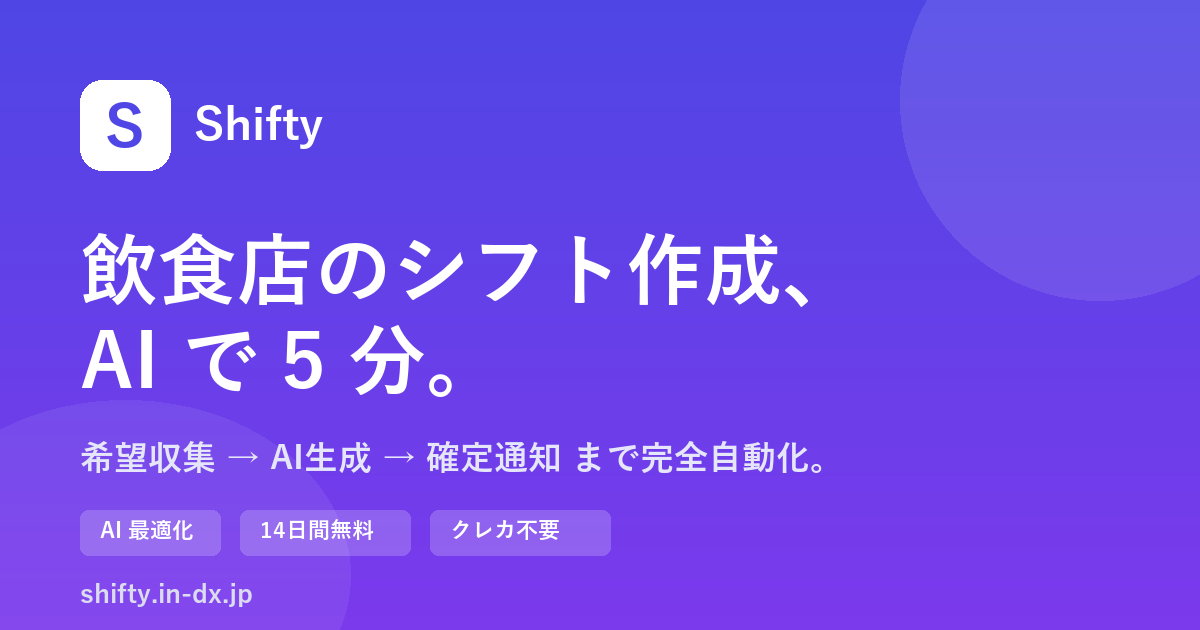
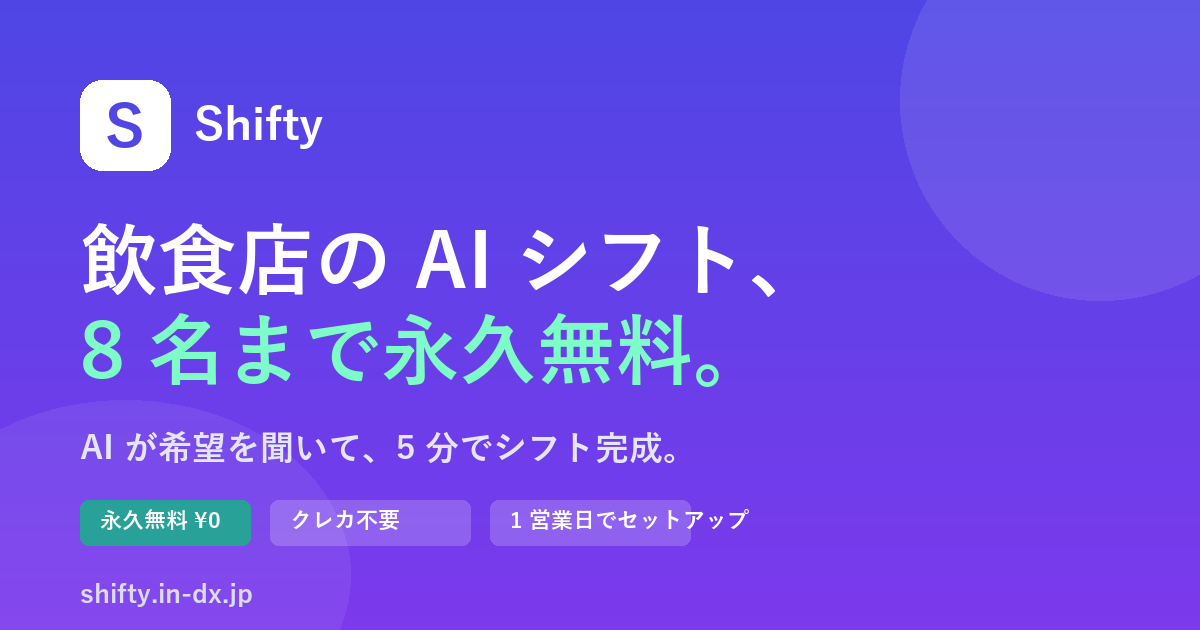
feat(LP): post-launch quality polish (4 items)
1. Help search UX 改善 (audit #N5):
   - opacity 0.3 fade → display:none で完全非表示
   - マッチ件数表示 ('🔍 N 件のセクションがマッチしました')
   - 該当 details 自動展開で内容を即座に確認可能
   - 0 件時にサポート連絡先を表示
   - aria-live=polite で screen reader 対応

2. OGP 画像 (og.png) 再生成:
   - 'AI で 5 分。' → '8 名まで永久無料。' (緑強調)
   - 'クレカ不要 / 14日間無料' → 'クレカ不要 / 1営業日でセットアップ' タグ
   - 永久無料 ¥0 タグを emerald 色で強調
   - 新ヒーロー文言と一致

3. '数字で見る Shifty' セクション追加:
   - Pain Points 直前に 4 KPI カード
   - ¥0 永久無料 / 12 主要機能 / 9 ハード制約 / 5 VOIXA 実績
   - β パートナー募集への導線も再強化
   - 顧客導入実績ゼロでも信頼性を示す数字訴求

4. 比較表の競合実名匿名化 (audit #N1 / 法務リスク回避):
   - 'Air シフト / シフトボード' → '他社 A / 他社 B' + 業態説明
   - 注釈強化: '弊社調べ・更新により変動・公式情報をご確認ください'
   - 景表法的なグレーゾーンを排除

Changed region(s): [[0.0617, 0.3619, 0.6783, 0.6333], [0.0617, 0.7841, 0.6167, 0.9048], [0.0617, 0.6635, 0.6783, 0.754]]

diff --git a/landing.html b/landing.html
@@ -368,6 +368,41 @@
     </div>
   </section>
 
+  <!-- Numbers / Trust Stats -->
+  <section class="py-12 bg-white border-y border-slate-100">
+    <div class="max-w-5xl mx-auto px-4">
+      <div class="text-center mb-8">
+        <h2 class="text-xl md:text-2xl font-bold mb-1">📊 数字で見る Shifty</h2>
+        <p class="text-xs text-slate-500">2026 年 5 月時点</p>
+      </div>
+      <div class="grid grid-cols-2 md:grid-cols-4 gap-4 text-center">
+        <div class="bg-emerald-50 border border-emerald-200 rounded-xl p-4">
+          <div class="text-3xl md:text-4xl font-bold text-emerald-700">¥0</div>
+          <div class="text-xs text-emerald-900 font-semibold mt-1">永久無料プラン</div>
+          <div class="text-[10px] text-slate-500 mt-1">8 名以下の店舗</div>
+        </div>
+        <div class="bg-brand-50 border border-brand-200 rounded-xl p-4">
+          <div class="text-3xl md:text-4xl font-bold text-brand-700">12</div>
+          <div class="text-xs text-brand-900 font-semibold mt-1">主要機能</div>
+          <div class="text-[10px] text-slate-500 mt-1">AI 生成・通知・分析他</div>
+        </div>
+        <div class="bg-amber-50 border border-amber-200 rounded-xl p-4">
+          <div class="text-3xl md:text-4xl font-bold text-amber-700">9</div>
+          <div class="text-xs text-amber-900 font-semibold mt-1">ハード制約</div>
+          <div class="text-[10px] text-slate-500 mt-1">労基準拠・違反ゼロ</div>
+        </div>
+        <div class="bg-purple-50 border border-purple-200 rounded-xl p-4">
+          <div class="text-3xl md:text-4xl font-bold text-purple-700">5</div>
+          <div class="text-xs text-purple-900 font-semibold mt-1">VOIXA 導入実績</div>
+          <div class="text-[10px] text-slate-500 mt-1">姉妹サービス・店舗数</div>
+        </div>
+      </div>
+      <div class="text-center mt-6 text-xs text-slate-500">
+        Shifty は β リリース中。<a href="#contact" data-plan="free" class="plan-cta-free text-emerald-600 underline font-semibold">β パートナー</a>として 1 号店舗を募集中です
+      </div>
+    </div>
+  </section>
+
   <!-- Pain Points -->
   <section class="py-20 bg-slate-50">
     <div class="max-w-5xl mx-auto px-4">
@@ -703,9 +738,9 @@
             <tr>
               <th class="text-left p-4 font-semibold">項目</th>
               <th class="text-center p-4 font-bold text-brand-600">Shifty</th>
-              <th class="text-center p-4">Air シフト</th>
-              <th class="text-center p-4">シフトボード</th>
-              <th class="text-center p-4">エクセル</th>
+              <th class="text-center p-4">他社 A<br><span class="text-[10px] font-normal text-slate-500">大手・無料縛り型</span></th>
+              <th class="text-center p-4">他社 B<br><span class="text-[10px] font-normal text-slate-500">スタッフ提出特化</span></th>
+              <th class="text-center p-4">エクセル<br><span class="text-[10px] font-normal text-slate-500">手作業</span></th>
             </tr>
           </thead>
           <tbody>
@@ -768,7 +803,10 @@
           </tbody>
         </table>
       </div>
-      <div class="text-xs text-slate-500 mt-4 text-center">※ 2026年5月時点の各社公開情報を元にした比較。実際の機能は各社に直接ご確認ください。</div>
+      <div class="text-xs text-slate-500 mt-4 text-center">
+        ※ 2026 年 5 月時点の弊社調べによる一般的な傾向比較です（具体名は伏せています）。各社サービスは更新により仕様が変動する可能性があります。
+        正確な機能比較は各サービスの公式情報を直接ご確認ください。
+      </div>
     </div>
   </section>
 

diff --git a/help.html b/help.html
@@ -36,7 +36,8 @@
       <p class="text-white/90 mb-6">使い方・トラブルシューティング・よくある質問</p>
       <div class="max-w-xl mx-auto">
         <input id="searchBox" type="search" placeholder="🔍 検索（例: スタッフ追加、希望提出、シフト確定）"
-          class="w-full border-0 rounded-lg px-5 py-3 text-slate-900 shadow-lg" />
+          class="w-full border-0 rounded-lg px-5 py-3 text-slate-900 shadow-lg" aria-label="ヘルプを検索" />
+        <div id="searchResultInfo" class="mt-2 text-sm text-white/90 hidden" aria-live="polite"></div>
       </div>
     </div>
   </section>
@@ -366,20 +367,45 @@
   </footer>
 
   <script>
-    // 検索: マッチしないセクションを薄表示
+    // 検索: マッチしないセクションを非表示 + 件数表示 + マッチ詳細を自動展開
     const searchBox = document.getElementById('searchBox');
+    const resultInfo = document.getElementById('searchResultInfo');
     searchBox.addEventListener('input', () => {
       const q = searchBox.value.toLowerCase().trim();
+      let hits = 0;
       document.querySelectorAll('article > section').forEach(sec => {
-        if (!q) { sec.style.display = ''; sec.style.opacity = '1'; return; }
+        if (!q) {
+          sec.style.display = '';
+          // details も初期状態（閉じる）に戻す
+          sec.querySelectorAll('details').forEach(d => d.removeAttribute('open'));
+          return;
+        }
         const text = sec.textContent.toLowerCase();
         if (text.includes(q)) {
           sec.style.display = '';
-          sec.style.opacity = '1';
+          // マッチした details を自動展開して内容をすぐ確認できるように
+          sec.querySelectorAll('details').forEach(d => {
+            const txt = d.textContent.toLowerCase();
+            if (txt.includes(q)) d.setAttribute('open', '');
+            else d.removeAttribute('open');
+          });
+          hits++;
         } else {
-          sec.style.opacity = '0.3';
+          sec.style.display = 'none';
         }
       });
+      // 件数フィードバック
+      if (!q) {
+        resultInfo.classList.add('hidden');
+        resultInfo.textContent = '';
+      } else {
+        resultInfo.classList.remove('hidden');
+        if (hits === 0) {
+          resultInfo.innerHTML = '🔎 該当する記事が見つかりません。<a href="mailto:[email redacted]" class="underline font-semibold">[email redacted]</a> までお気軽にお問い合わせください';
+        } else {
+          resultInfo.textContent = `🔍 ${hits} 件のセクションがマッチしました`;
+        }
+      }
     });
 
     // ハッシュリンクで該当セクションを開く

diff --git a/gen_og.py b/gen_og.py
@@ -66,19 +66,19 @@ draw.text(
 draw.text((logo_x + logo_size + 24, logo_y + 20), "Shifty", fill=(255, 255, 255), font=font_brand)
 
 # ----- メインコピー -----
-draw.text((80, 230), "飲食店のシフト作成、", fill=(255, 255, 255), font=font_h1)
-draw.text((80, 320), "AI で 5 分。", fill=(255, 255, 255), font=font_h1)
+draw.text((80, 220), "飲食店の AI シフト、", fill=(255, 255, 255), font=font_h1)
+draw.text((80, 310), "8 名まで永久無料。", fill=(126, 252, 200), font=font_h1)  # emerald-300 風
 
 # サブコピー
-draw.text((80, 440), "希望収集 → AI生成 → 確定通知 まで完全自動化。", fill=(230, 230, 250), font=font_sub)
+draw.text((80, 430), "AI が希望を聞いて、5 分でシフト完成。", fill=(230, 230, 250), font=font_sub)
 
 # タグ
-draw.rounded_rectangle((80, 510, 220, 555), radius=8, fill=(255, 255, 255, 50))
-draw.text((100, 518), "AI 最適化", fill=(255, 255, 255), font=font_tag)
-draw.rounded_rectangle((240, 510, 410, 555), radius=8, fill=(255, 255, 255, 50))
-draw.text((260, 518), "14日間無料", fill=(255, 255, 255), font=font_tag)
-draw.rounded_rectangle((430, 510, 610, 555), radius=8, fill=(255, 255, 255, 50))
-draw.text((450, 518), "クレカ不要", fill=(255, 255, 255), font=font_tag)
+draw.rounded_rectangle((80, 500, 250, 545), radius=8, fill=(16, 185, 129, 200))  # emerald-500
+draw.text((100, 508), "永久無料 ¥0", fill=(255, 255, 255), font=font_tag)
+draw.rounded_rectangle((270, 500, 470, 545), radius=8, fill=(255, 255, 255, 50))
+draw.text((290, 508), "クレカ不要", fill=(255, 255, 255), font=font_tag)
+draw.rounded_rectangle((490, 500, 690, 545), radius=8, fill=(255, 255, 255, 50))
+draw.text((510, 508), "1 営業日でセットアップ", fill=(255, 255, 255), font=font_tag)
 
 # URL
 draw.text((80, 580), "shifty.in-dx.jp", fill=(220, 220, 240), font=font_url)